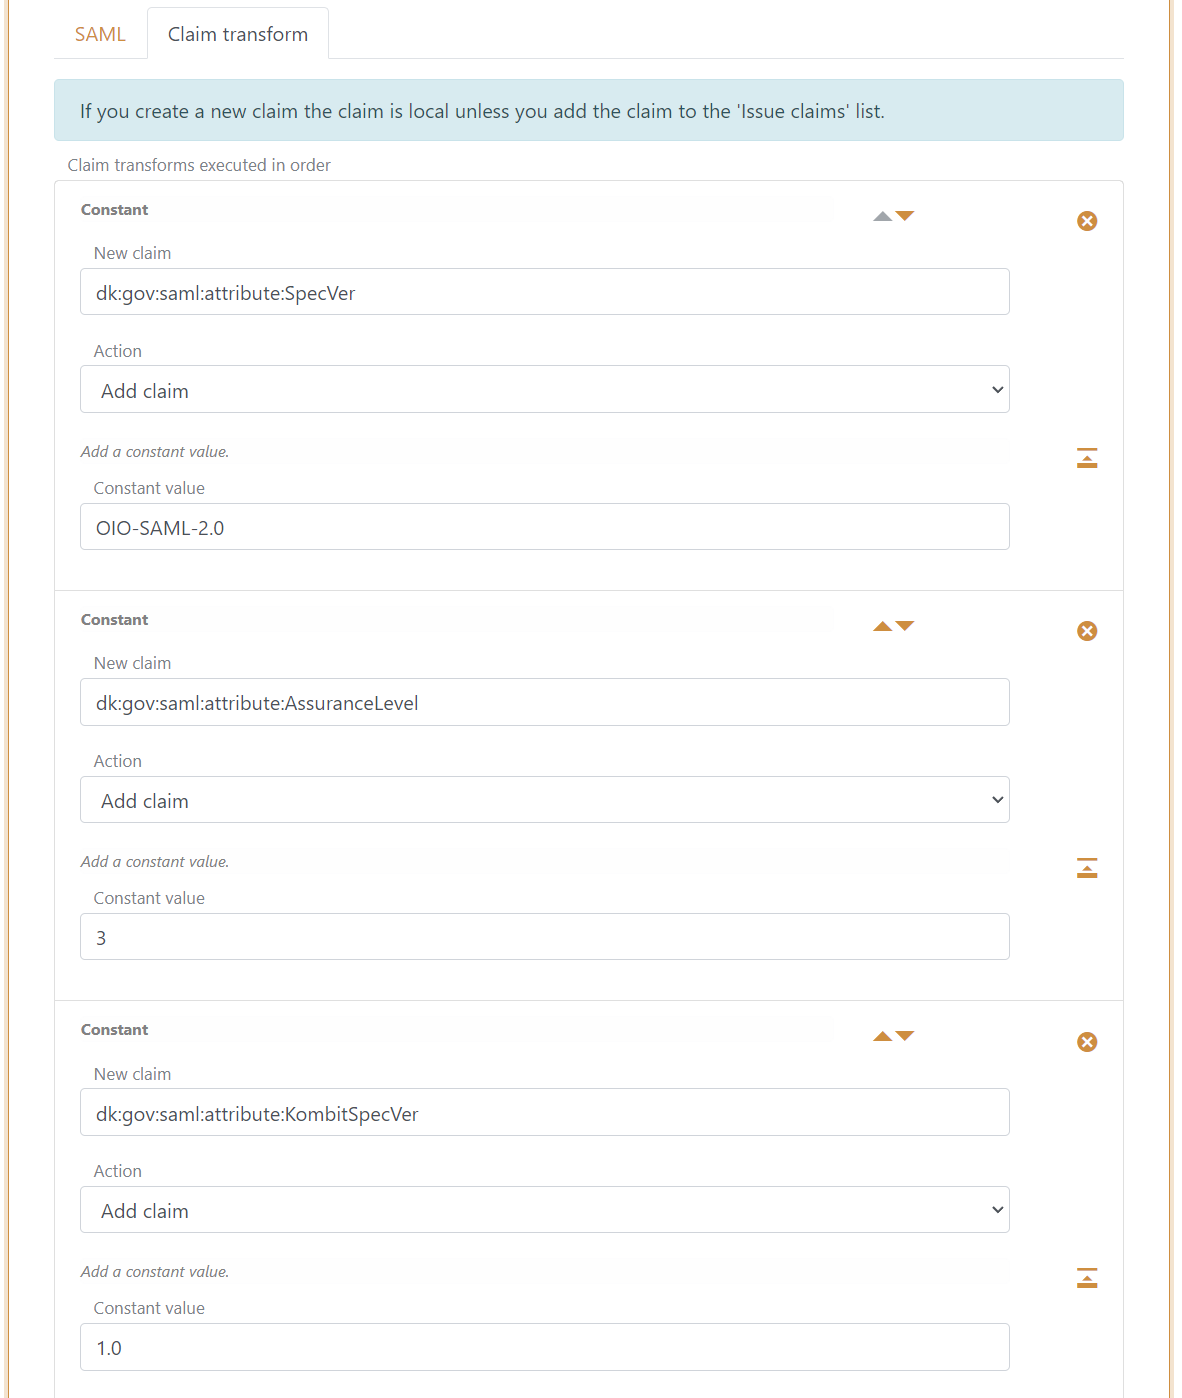
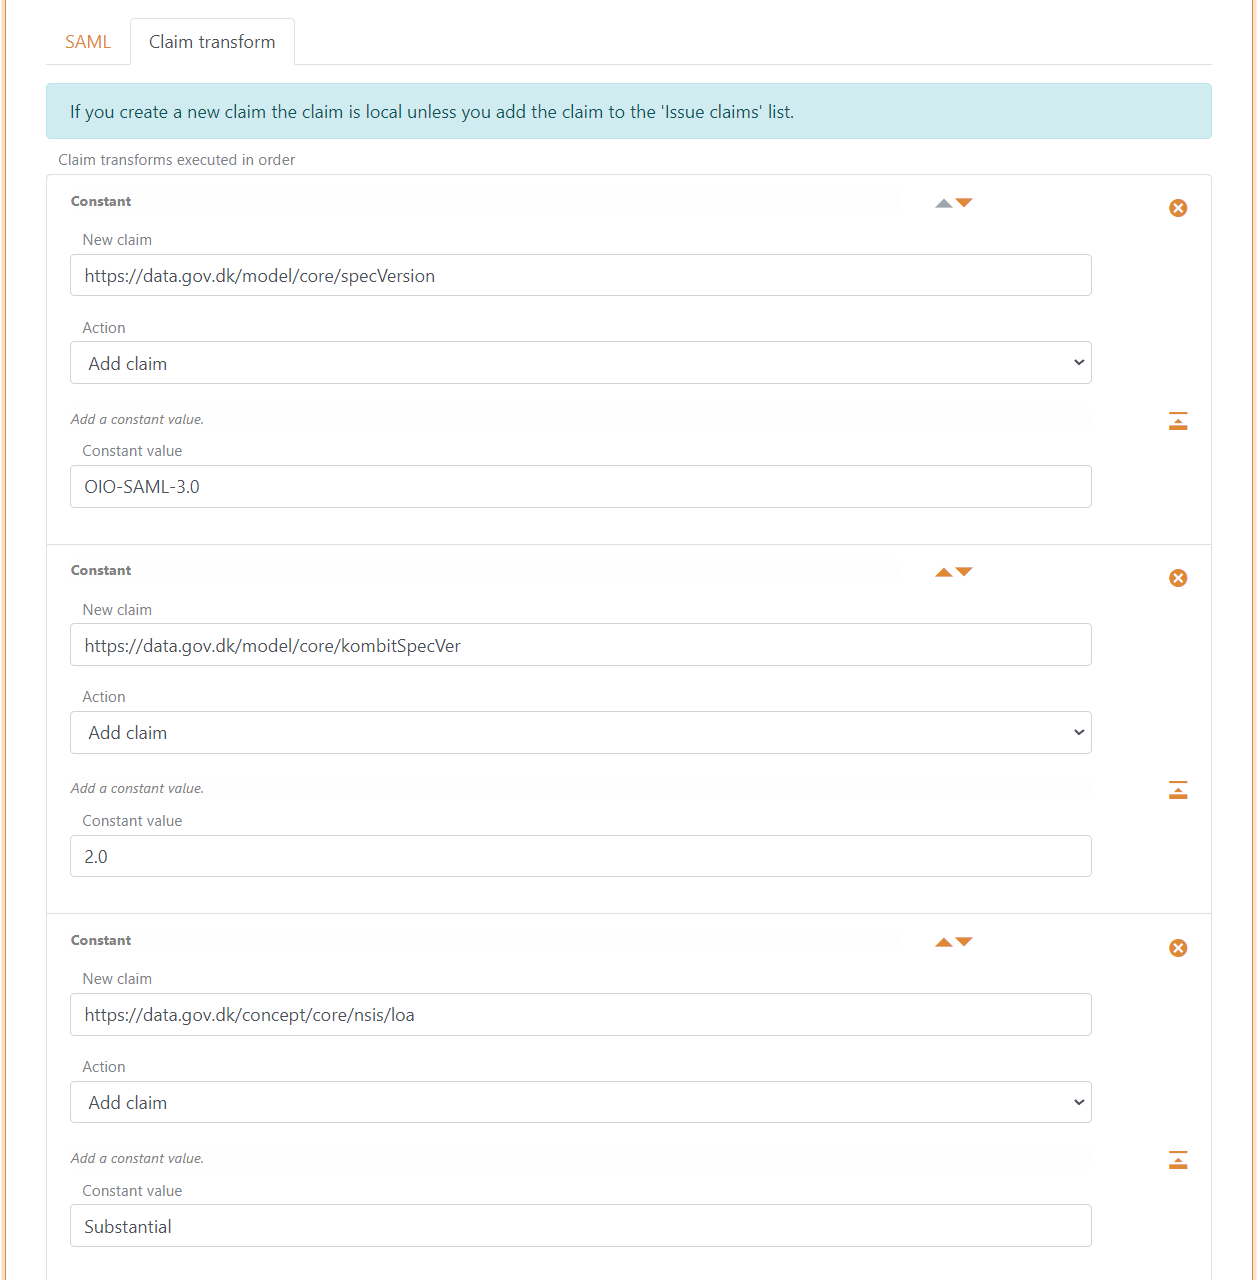
docs Context Handler

diff --git a/docs/howto-saml-2.0-context-handler.md b/docs/howto-saml-2.0-context-handler.md
@@ -95,7 +95,7 @@ The following claims is most often used:
 
 ![Context Handler SAML 2.0 up-party](images/howto-saml-context-handler-up-attributes.png)
 
-15. Add at a administrative contact person
+15. Add an administrative contact person
 16. Click Update
 17. Go to the top of the SAML 2.0 up-party
 18. Find the SAML 2.0 up-party SP-metadata URL, in this case https://foxids.com/test-corp/context-handler-test/(cp-rp)/saml/spmetadata. 
@@ -179,15 +179,17 @@ The following claims is most often used:
 12. Select Encrypt authn response
 13. Add the certificate from the metadata as a optional encryption certificate
 
-12. Set certificate validation mode to `Chain trust` (if the OCES3 certificate is global trusted) and revocation mode to `Online`
-13. Configure a custom IdP issuer, the issuer can optionally start with `https://saml.` The issuer in this example `https://saml.foxids.com/test-corp/context-handler-test-idp/`.
-14. Select to add logout response location URL in metadata
-15. Select to include the encryption certificate in metadata
-16. Set the NameID format in metadata to `urn:oasis:names:tc:SAML:1.1:nameid-format:X509SubjectName`
-17. Click Update
-18. Go to the top of the SAML 2.0 down-party
-19. Find the SAML 2.0 down-party IdP-metadata, in this case `https://localhost:44330/testcorp/test-contexthandler-idp/ch-idp(*)/saml/idpmetadata`. 
-20. The IdP-metadata is used to configure the Context Handler identity provider.
+14. Set certificate validation mode to `Chain trust` (if the OCES3 certificate is global trusted) and revocation mode to `Online`
+15. Set Authn response sign type to Sign assertion
+16. Configure a custom IdP issuer, the issuer can optionally start with `https://saml.` The issuer in this example `https://saml.foxids.com/test-corp/context-handler-test-idp/`.
+17. Select to add logout response location URL in metadata
+18. Select to include the encryption certificate in metadata
+19. Set the NameID format in metadata to `urn:oasis:names:tc:SAML:1.1:nameid-format:X509SubjectName`
+20. Add an administrative contact person
+20. Click Update
+21. Go to the top of the SAML 2.0 down-party
+22. Find the SAML 2.0 down-party IdP-metadata, in this case `https://localhost:44330/testcorp/test-contexthandler-idp/ch-idp(*)/saml/idpmetadata`. 
+23. The IdP-metadata is used to configure the Context Handler identity provider.
  
 **2 - Then go to the [Context Handler administration portal](https://serviceplatformen.dk/administration/)**
 
@@ -208,7 +210,7 @@ The following claims is most often used:
 Create the claims which has to be issued to Context Handler in claim transforms.
 
 1. Add the spec. ver. claims
-2. Optionally add the assurance level claim or read it through the claims pipeline
+2. Optionally add the levels of assurance (loa) claim or read it through the claims pipeline
 
 ![Context Handler SAML 2.0 down-party](images/howto-saml-context-handler-down-ct1.png)
 
@@ -226,10 +228,18 @@ Create the claims which has to be issued to Context Handler in claim transforms.
  2. Add mappings for all the claims configured in step 1.8, you can create you own short JWT claim names if no standard name exists - please see step 4 in section [Configuring Context Handler as Identity Provider](#configuring-context-handler-as-identity-provider)
  3. Click update
 
-**5 - Optionally add users in [FoxIDs Control Client](control.md#foxids-control-client)**
+**5 - Add test users in [FoxIDs Control Client](control.md#foxids-control-client)**
 
-You can add uses in the FoxIDs test track and add claims to each user.
-
-E.g. a claim with a CVR claim, given name, family name and a base64 encoded [DK privilege XML](claim-transform-dk-privilege.md) string.
+You can add test uses in the FoxIDs test track and add claims to each user.  
+A claim with a CVR claim, given name, family name and optionally a base64 encoded DK privilege XML string.
 
 ![Test user 1](images/howto-saml-context-handler-test-user1.png)
+
+If the user should have the Job function role (DK: Jobfunktionsrolle) `http://foxids.com/roles/jobrole/test-corp-admin_access/1` the DK privilege XML would be:
+
+    <?xml version="1.0" encoding="UTF-8"?>
+    <bpp:PrivilegeList xmlns:bpp="http://digst.dk/oiosaml/basic_privilege_profile" xmlns:xsi="http://www.w3.org/2001/XMLSchema-instance" >
+        <PrivilegeGroup Scope="urn:dk:gov:saml:cvrNumberIdentifier:11111111">
+            <Privilege>http://foxids.com/roles/jobrole/test-corp-admin_access/1</Privilege>
+        </PrivilegeGroup>
+    </bpp:PrivilegeList>
